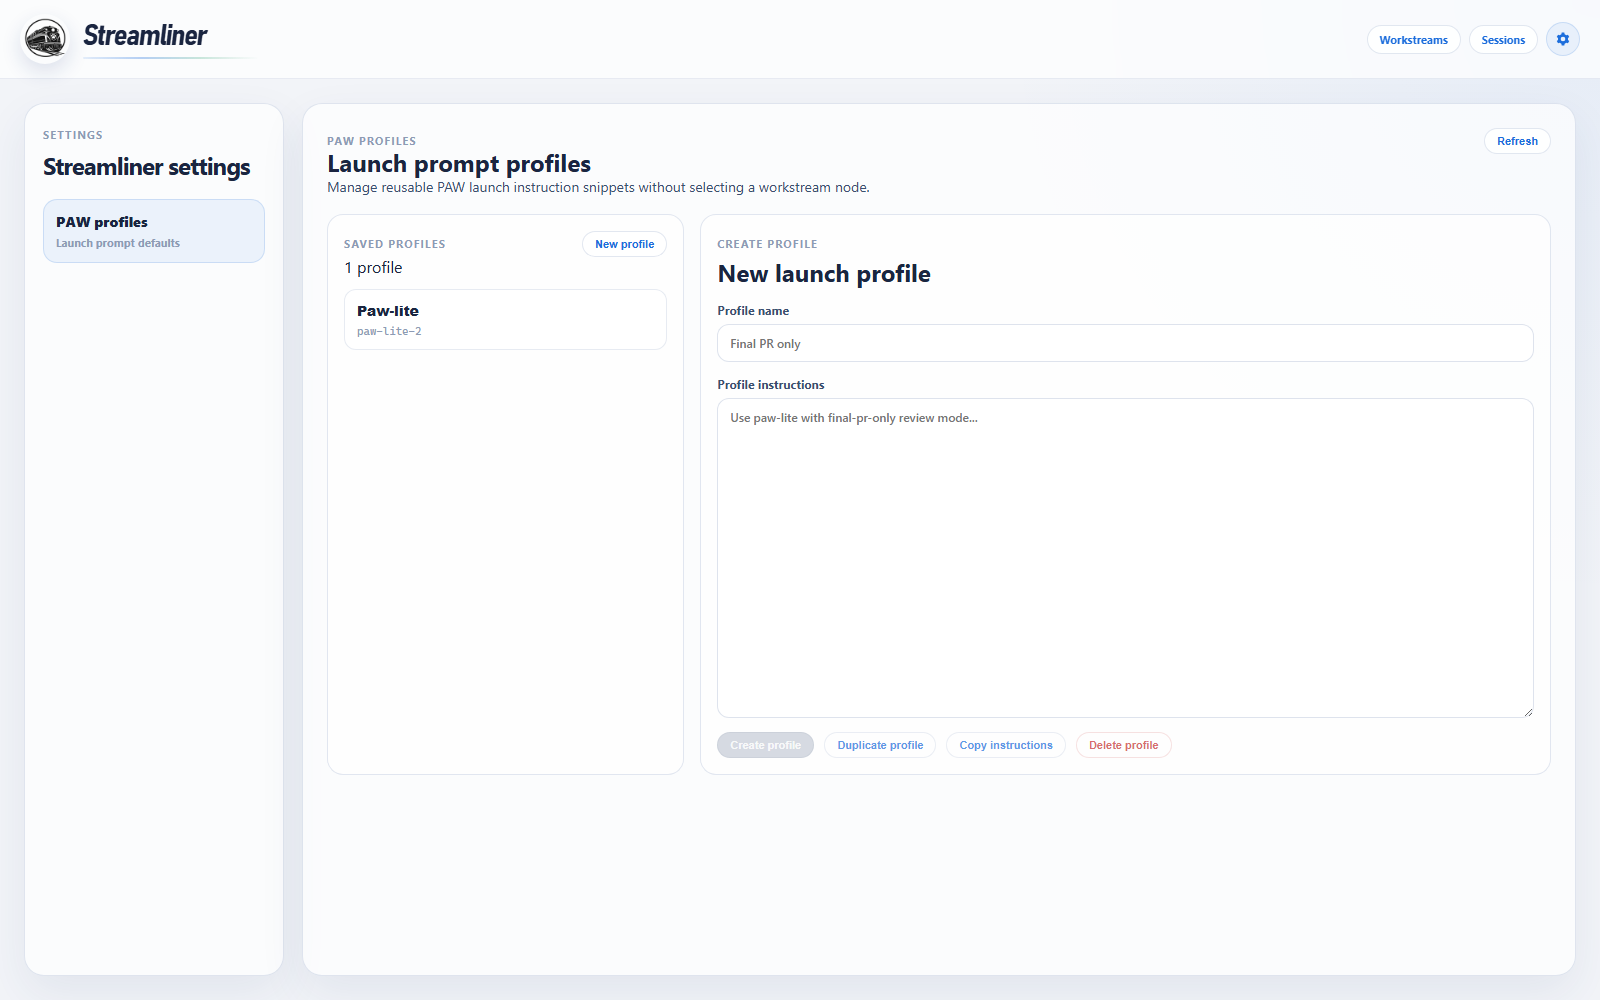
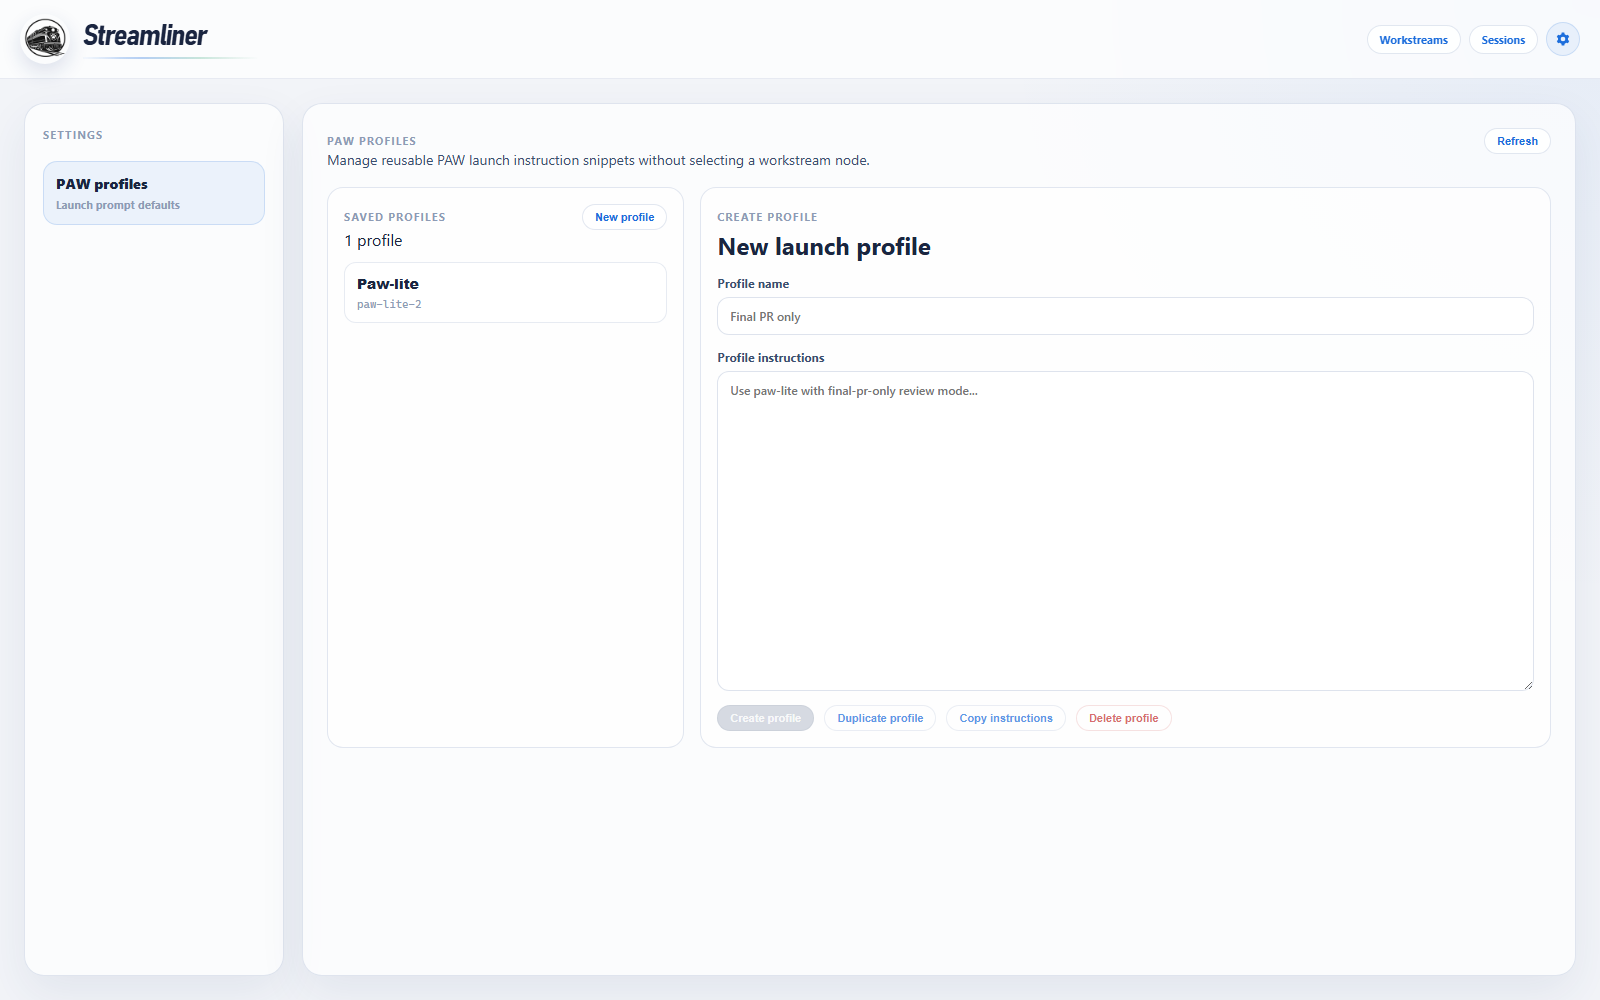
Simplify settings profile headers

Changed region(s): [[0.1875, 0.155, 0.625, 0.434], [0.4375, 0.682, 0.7188, 0.775], [0.0312, 0.155, 0.1562, 0.248]]

diff --git a/src/App.test.tsx b/src/App.test.tsx
@@ -590,9 +590,9 @@ describe("App sessions route", () => {
       await settle(100);
 
       expect(window.location.pathname).toBe("/settings/profiles");
-      expect(container.textContent).toContain("Streamliner settings");
-      expect(container.textContent).toContain("PAW profiles");
-      expect(container.textContent).toContain("Launch prompt profiles");
+      expect(container.querySelector(".sl-settings-sidebar-head")?.textContent?.trim()).toBe("Settings");
+      expect(container.querySelector(".sl-profiles-header")?.textContent).toContain("PAW profiles");
+      expect(container.querySelector(".sl-profiles-header")?.textContent).not.toContain("Launch prompt profiles");
       expect(container.textContent).toContain("No launch prompt profiles yet");
     },
     15_000,
@@ -660,9 +660,9 @@ describe("App sessions route", () => {
       });
       await settle(100);
 
-      expect(container.textContent).toContain("Streamliner settings");
-      expect(container.textContent).toContain("PAW profiles");
-      expect(container.textContent).toContain("Launch prompt profiles");
+      expect(container.querySelector(".sl-settings-sidebar-head")?.textContent?.trim()).toBe("Settings");
+      expect(container.querySelector(".sl-profiles-header")?.textContent).toContain("PAW profiles");
+      expect(container.querySelector(".sl-profiles-header")?.textContent).not.toContain("Launch prompt profiles");
       act(() => {
         findButtonByLabel(container, "Select profile Final PR only").click();
       });

diff --git a/src/App.tsx b/src/App.tsx
@@ -2194,7 +2194,6 @@ function SettingsPage({
         <aside className="sl-settings-sidebar" aria-label="Streamliner settings sections">
           <div className="sl-settings-sidebar-head">
             <span className="sl-eyebrow">Settings</span>
-            <h1>Streamliner settings</h1>
           </div>
           <nav className="sl-settings-nav" aria-label="Streamliner settings">
             <a

diff --git a/src/components/PawProfilesPage.tsx b/src/components/PawProfilesPage.tsx
@@ -188,7 +188,6 @@ export function PawProfilesPage({
       <header className="sl-profiles-header">
         <div>
           <span className="sl-eyebrow">PAW profiles</span>
-          <h1 className="sl-title">Launch prompt profiles</h1>
           <p className="sl-summary">
             Manage reusable PAW launch instruction snippets without selecting a workstream node.
           </p>

diff --git a/src/streamliner-theme.css b/src/streamliner-theme.css
@@ -1312,13 +1312,6 @@ a.sl-action-btn {
   gap: 18px;
 }
 
-.sl-settings-sidebar-head h1 {
-  margin: 6px 0 0;
-  color: var(--sl-text);
-  font-size: 24px;
-  letter-spacing: -0.04em;
-}
-
 .sl-settings-nav {
   display: grid;
   gap: 8px;
